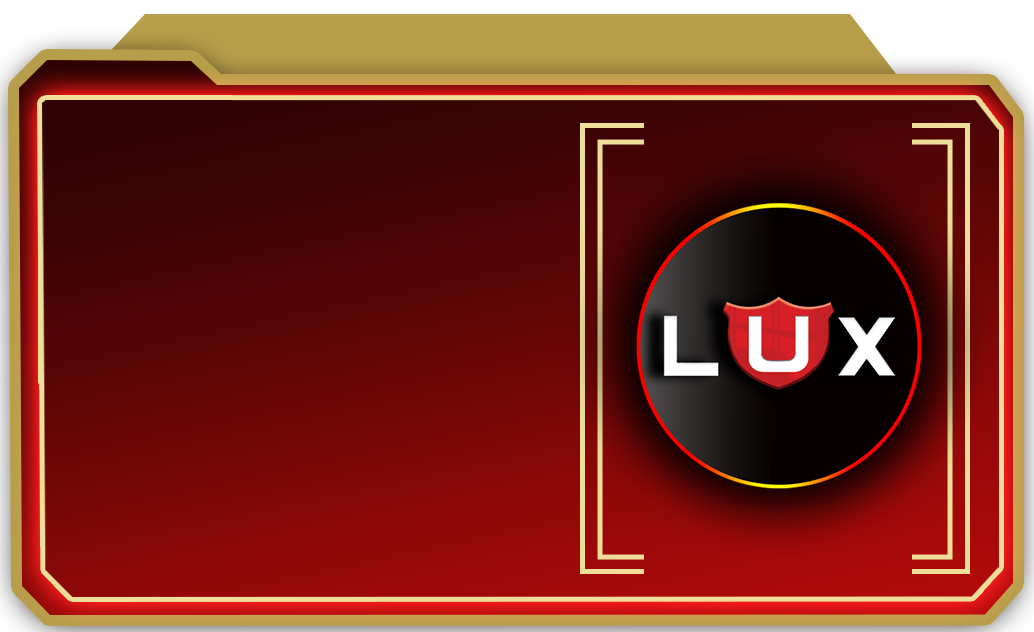
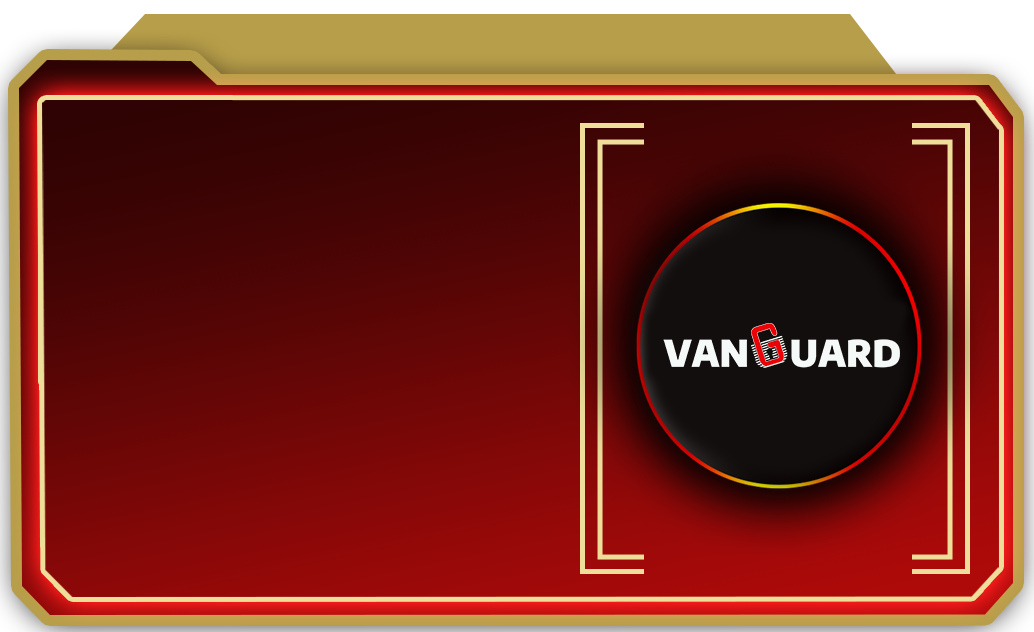
vang8

diff --git a/lib/Page/AddDevice/AddDevice2.dart b/lib/Page/AddDevice/AddDevice2.dart
@@ -203,9 +203,9 @@ class _Adddevice2State extends State<Adddevice2> {
                       ),
                     ),
                     Container(
-                      width: Get.width * 0.42,
-                      height: Get.height,
-                      child: Center(
+                      width: Get.width * 0.2,
+                      height: Get.width * 0.2,
+                     /*  child: Center(
                         child: Container(
                           width: Get.width * 0.42,
                           height: Get.width * 0.42,
@@ -217,7 +217,7 @@ class _Adddevice2State extends State<Adddevice2> {
                                   image: AssetImage('assets/image/logo.png'))),
                         ),
                       ),
-
+ */
                       // color: Colors.pink,
                     ),
                   ],
